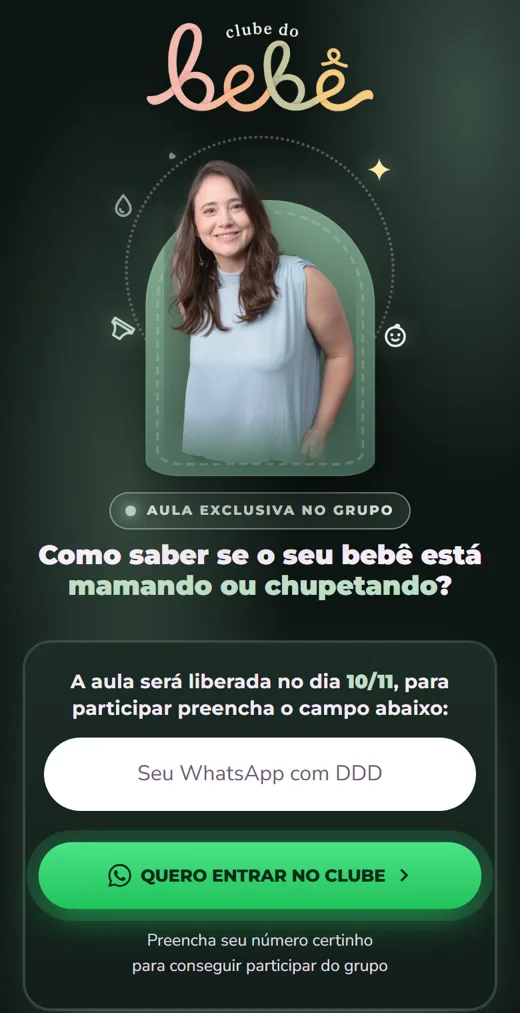
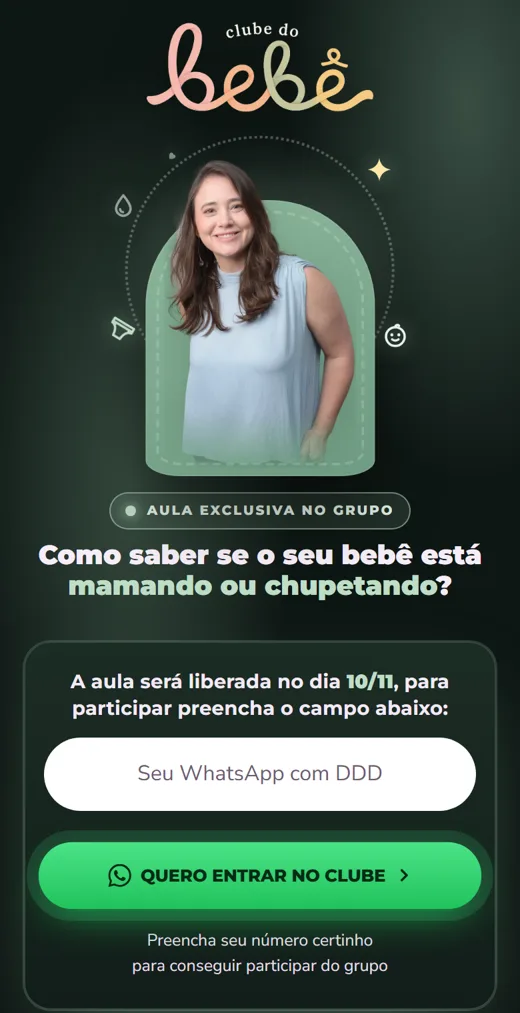
black 2026: amamentacao sem sombra escura atras da Day

Changed region(s): [[0.2769, 0.2142, 0.7385, 0.4896], [0.6154, 0.3366, 0.6462, 0.3672]]

diff --git a/2026-10-26-black-2026/clube-do-bebe/amamentacao-aula/index.html b/2026-10-26-black-2026/clube-do-bebe/amamentacao-aula/index.html
@@ -71,7 +71,7 @@ h2{line-height:1.2}
 
 /* foto da Day no estilo do mídia kit */
 .portrait{position:relative;width:70%;aspect-ratio:.8;display:flex;align-items:flex-end;justify-content:center}
-.portrait .arch{position:absolute;left:50%;bottom:0;transform:translateX(-50%);width:100%;height:86%;border-radius:46% 46% 26px 26px/38% 38% 12px 12px;background:linear-gradient(160deg,var(--mag),#3E5C4E);box-shadow:0 22px 50px rgba(0,0,0,.45),inset 0 0 0 1px rgba(255,255,255,.08);z-index:0}
+.portrait .arch{position:absolute;left:50%;bottom:0;transform:translateX(-50%);width:100%;height:86%;border-radius:46% 46% 26px 26px/38% 38% 12px 12px;background:linear-gradient(160deg,var(--mag),#6E9A82);box-shadow:0 22px 50px rgba(0,0,0,.45),inset 0 0 0 1px rgba(255,255,255,.08);z-index:0}
 .portrait .arch::before{content:"";position:absolute;inset:8px;border:2px dashed rgba(255,255,255,.18);border-radius:44% 44% 20px 20px/36% 36% 10px 10px}
 .portrait .halo{position:absolute;left:50%;top:40%;transform:translate(-50%,-50%);width:140%;aspect-ratio:1;border-radius:50%;background:radial-gradient(circle,rgba(191,221,198,.45),rgba(191,221,198,0) 62%);filter:blur(8px);z-index:0}
 .portrait .rings{position:absolute;left:50%;top:36%;transform:translate(-50%,-50%);width:118%;aspect-ratio:1;border:2px dotted rgba(255,255,255,.28);border-radius:50%;z-index:0;animation:spin 40s linear infinite}
@@ -126,7 +126,7 @@ section{padding-block:64px}
 .aula-grid{display:grid;grid-template-columns:400px 1fr;gap:48px;align-items:center}
 .aula p b{color:#D4EBDA;font-size:1.1em}
 .lockup-aula{width:min(380px,100%);padding-top:30px}
-.lockup-aula .arch{background:linear-gradient(160deg,#7FA48F,#16241F)}
+.lockup-aula .arch{background:linear-gradient(160deg,#A4C7AE,#5E8A73)}
 .lockup-aula .portrait{width:74%}
 .lockup-aula .portrait img{width:100%}
 .placa-aula{width:78%;margin-top:-20%;padding:14px 10px;border-radius:18px;text-align:center;background:linear-gradient(160deg,#1C2C25,#0C1411);box-shadow:0 0 0 2px #BFDDC6,0 0 18px rgba(191,221,198,.75),inset 0 0 16px rgba(191,221,198,.35),0 16px 34px rgba(0,0,0,.55);animation:neon-caixa 3s ease-in-out infinite}
@@ -243,7 +243,7 @@ footer{padding:26px 18px calc(26px + env(safe-area-inset-bottom));text-align:cen
 @media(min-width:861px){.topo-logo{padding-bottom:26px}}
 .topo-logo img{width:min(250px,60vw);height:auto;filter:drop-shadow(0 6px 22px rgba(0,0,0,.45))}
 @media(max-width:860px){.topo-logo img{width:min(170px,46vw)}.hero{padding-top:16px}}
-.portrait img{width:84%}
+.portrait img{width:84%;filter:drop-shadow(0 10px 16px rgba(0,0,0,.14))}
 .lockup-day .portrait img{width:84%;margin-inline:0}
 .portrait img.day-ebook{width:100%;margin-left:-10%;transform:translateY(11%)}
 .capa-ebook{left:62%;bottom:49%}

diff --git a/2026-10-26-black-2026/clube-do-bebe/amamentacao-ebook/index.html b/2026-10-26-black-2026/clube-do-bebe/amamentacao-ebook/index.html
@@ -77,7 +77,7 @@ h2{line-height:1.2}
 
 /* foto da Day no estilo do mídia kit */
 .portrait{position:relative;width:70%;aspect-ratio:.8;display:flex;align-items:flex-end;justify-content:center}
-.portrait .arch{position:absolute;left:50%;bottom:0;transform:translateX(-50%);width:100%;height:86%;border-radius:46% 46% 26px 26px/38% 38% 12px 12px;background:linear-gradient(160deg,#8A5A6C,#352129);box-shadow:0 22px 50px rgba(0,0,0,.45),inset 0 0 0 1px rgba(255,255,255,.08);z-index:0}
+.portrait .arch{position:absolute;left:50%;bottom:0;transform:translateX(-50%);width:100%;height:86%;border-radius:46% 46% 26px 26px/38% 38% 12px 12px;background:linear-gradient(160deg,#C4899E,#8E5E70);box-shadow:0 22px 50px rgba(0,0,0,.45),inset 0 0 0 1px rgba(255,255,255,.08);z-index:0}
 .portrait .arch::before{content:"";position:absolute;inset:8px;border:2px dashed rgba(255,255,255,.18);border-radius:44% 44% 20px 20px/36% 36% 10px 10px}
 .portrait .halo{position:absolute;left:50%;top:40%;transform:translate(-50%,-50%);width:140%;aspect-ratio:1;border-radius:50%;background:radial-gradient(circle,rgba(248,209,220,.45),rgba(248,209,220,0) 62%);filter:blur(8px);z-index:0}
 .portrait .rings{position:absolute;left:50%;top:36%;transform:translate(-50%,-50%);width:118%;aspect-ratio:1;border:2px dotted rgba(255,255,255,.28);border-radius:50%;z-index:0;animation:spin 40s linear infinite}
@@ -132,7 +132,7 @@ section{padding-block:64px}
 .aula-grid{display:grid;grid-template-columns:400px 1fr;gap:48px;align-items:center}
 .aula p b{color:#FBDCE5;font-size:1.1em}
 .lockup-aula{width:min(380px,100%);padding-top:30px}
-.lockup-aula .arch{background:linear-gradient(160deg,#B9788E,#2A1B22)}
+.lockup-aula .arch{background:linear-gradient(160deg,#D7A3B5,#8E5E70)}
 .lockup-aula .portrait{width:74%}
 .lockup-aula .portrait img{width:100%}
 .placa-aula{width:78%;margin-top:-20%;padding:14px 10px;border-radius:18px;text-align:center;background:linear-gradient(160deg,#2E1F26,#170F13);box-shadow:0 0 0 2px #F8D1DC,0 0 18px rgba(248,209,220,.75),inset 0 0 16px rgba(248,209,220,.35),0 16px 34px rgba(0,0,0,.55);animation:neon-caixa 3s ease-in-out infinite}
@@ -249,7 +249,7 @@ footer{padding:26px 18px calc(26px + env(safe-area-inset-bottom));text-align:cen
 @media(min-width:861px){.topo-logo{padding-bottom:26px}}
 .topo-logo img{width:min(250px,60vw);height:auto;filter:drop-shadow(0 6px 22px rgba(0,0,0,.45))}
 @media(max-width:860px){.topo-logo img{width:min(170px,46vw)}.hero{padding-top:16px}}
-.portrait img{width:84%}
+.portrait img{width:84%;filter:drop-shadow(0 10px 16px rgba(0,0,0,.14))}
 .lockup-day .portrait img{width:84%;margin-inline:0}
 .portrait img.day-ebook{width:100%;margin-left:-10%;transform:translateY(11%)}
 .capa-ebook{left:62%;bottom:49%}
